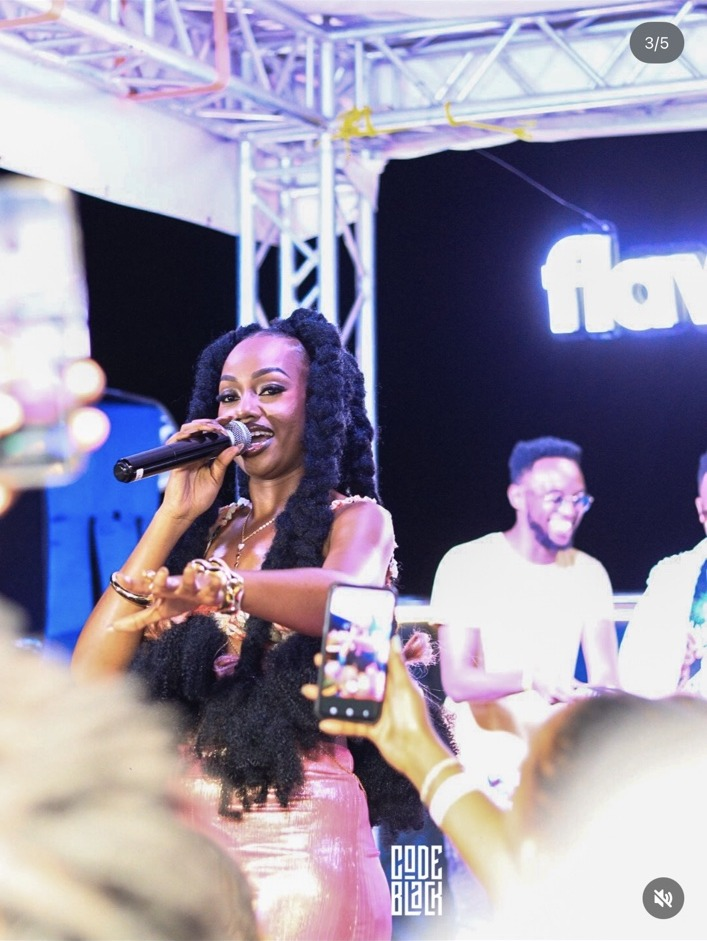
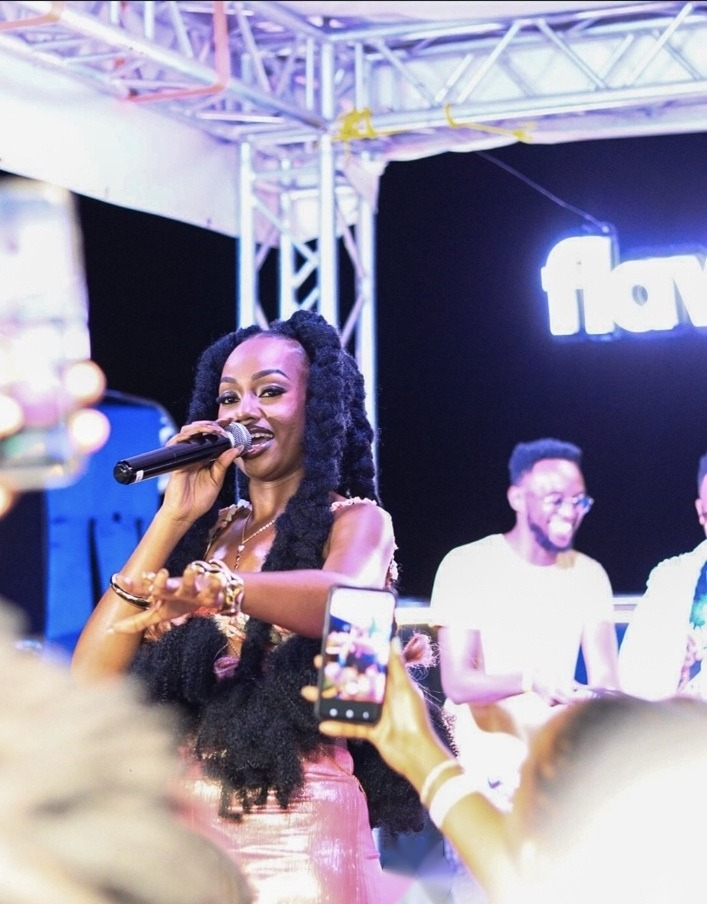
Clean Njerae and Bien photos, add more photos to the cover story, fix Fashion share image
Claude-Session: https://claude.ai/code/session_014AP1cqNKt7t5tdUCJACwcT

diff --git a/nairobi-new-sound.html b/nairobi-new-sound.html
@@ -1,4 +1,4 @@
-<!doctype html><html lang="en"><head><meta charset="utf-8"><meta name="viewport" content="width=device-width,initial-scale=1,viewport-fit=cover"><title>Nairobi’s New Sound | flavor.africa</title>
+<!doctype html><html lang="en"><head><meta charset="utf-8"><meta name="viewport" content="width=device-width,initial-scale=1,viewport-fit=cover"><title>Nairobi's New Sound | flavor.africa</title>
 <meta name="description" content="It isn&#x27;t one genre. That&#x27;s the whole point. Africa&#x27;s youngest streaming city is playing dancehall, konpa, arbantone and gospel all at once, and the numbers…">
 <link rel="canonical" href="https://flavorafricagroup.org/nairobi-new-sound.html">
 <meta name="robots" content="index,follow,max-image-preview:large">
@@ -11,7 +11,7 @@
 <meta name="claude:viewport-fit-sides" content="cover">
 <link rel="stylesheet" href="https://fonts.googleapis.com/css2?family=Barlow+Condensed:wght@500;600&family=DM+Mono:wght@400;500&family=Poppins:wght@300;400;500;700&display=swap">
 <link rel="stylesheet" href="style.css">
-</head><body><header><div class="wrap bar"><button class="icon" type="button" id="open" aria-label="Open menu"><svg viewBox="0 0 24 24" fill="none" stroke="currentColor" stroke-width="1.6"><path d="M3 6h18M3 12h18M3 18h18"/></svg></button><a class="logo" href="index.html">flavor.africa</a><div class="soc soc-hdr"><a href="https://www.instagram.com/flavor.africacorp" target="_blank" rel="noopener" aria-label="Flavor Africa on Instagram"><svg viewBox="0 0 24 24" fill="none" stroke="currentColor" stroke-width="1.6" aria-hidden="true"><rect x="3.2" y="3.2" width="17.6" height="17.6" rx="5"/><circle cx="12" cy="12" r="4"/><circle cx="17.4" cy="6.6" r=".9" fill="currentColor" stroke="none"/></svg></a><a href="https://www.tiktok.com/@flavor.africacorp" target="_blank" rel="noopener" aria-label="Flavor Africa on TikTok"><svg viewBox="0 0 24 24" fill="none" stroke="currentColor" stroke-width="1.6" stroke-linecap="round" stroke-linejoin="round" aria-hidden="true"><path d="M13.5 3.5v11.2a3.6 3.6 0 1 1-3.6-3.6"/><path d="M13.5 3.5c.5 2.7 2.3 4.4 5.2 4.6"/></svg></a><a href="https://www.youtube.com/@flavorafrica" target="_blank" rel="noopener" aria-label="Flavor Africa on YouTube"><svg viewBox="0 0 24 24" fill="none" stroke="currentColor" stroke-width="1.6" aria-hidden="true"><rect x="2.6" y="5.6" width="18.8" height="12.8" rx="4"/><path d="M10.2 9.3v5.4l4.6-2.7z" fill="currentColor" stroke="none"/></svg></a></div></div><nav class="sub" aria-label="Sections"><div class="wrap"><a href="index.html">Home</a><a href="music.html">Music</a><a href="charts.html">Charts</a><a href="screen.html">Film & TV</a><a href="fashion.html">Fashion</a><a href="money.html">Business</a><a href="sport.html">Sport</a><a href="culture.html">Culture</a><a href="features.html">Features</a><a href="live.html">Live</a><a href="about.html">About</a></div></nav></header><div class="drawer" id="drawer" hidden><div class="wrap bar"><button class="icon" type="button" id="close" aria-label="Close menu"><svg viewBox="0 0 24 24" fill="none" stroke="currentColor" stroke-width="1.6"><path d="M5 5l14 14M19 5L5 19"/></svg></button><a class="logo" href="index.html">flavor.africa</a><span></span></div><div class="wrap"><div class="acc"><a href="index.html">Home</a></div><div class="acc"><button type="button" aria-expanded="false"><b style="font-weight:600">Music</b><span>+</span></button><ul hidden><li><a href="music.html">All Music</a></li><li><a href="music.html">The Drop</a></li><li><a href="music.html">Flavor Playlist</a></li><li><a href="charts.html">Flavor Charts</a></li><li><a href="music.html">Flavor Radar</a></li><li><a href="music.html">The Verdict</a></li></ul></div><div class="acc"><a href="charts.html">Charts</a></div><div class="acc"><button type="button" aria-expanded="false"><b style="font-weight:600">Film &amp; TV</b><span>+</span></button><ul hidden><li><a href="screen.html">All Film &amp; TV</a></li><li><a href="screen.html">The Watchlist</a></li></ul></div><div class="acc"><button type="button" aria-expanded="false"><b style="font-weight:600">Fashion</b><span>+</span></button><ul hidden><li><a href="fashion.html">All Fashion</a></li><li><a href="fashion.html">Flavor Fashion</a></li></ul></div><div class="acc"><button type="button" aria-expanded="false"><b style="font-weight:600">Business</b><span>+</span></button><ul hidden><li><a href="money.html">All Business</a></li><li><a href="money.html">Money Moves</a></li><li><a href="money.html">Flavor Figures</a></li></ul></div><div class="acc"><button type="button" aria-expanded="false"><b style="font-weight:600">Sport</b><span>+</span></button><ul hidden><li><a href="sport.html">All Sport</a></li><li><a href="sport.html">Flavor Sports</a></li></ul></div><div class="acc"><button type="button" aria-expanded="false"><b style="font-weight:600">Culture</b><span>+</span></button><ul hidden><li><a href="culture.html">All Culture</a></li><li><a href="culture.html">Flavor Roots</a></li><li><a href="culture.html">Flavor Decoded</a></li><li><a href="culture.html">Flavor Rewind</a></li><li><a href="culture.html">In Their Words</a></li></ul></div><div class="acc"><button type="button" aria-expanded="false"><b style="font-weight:600">Features</b><span>+</span></button><ul hidden><li><a href="features.html">All Features</a></li><li><a href="features.html">Flavor Feature</a></li><li><a href="features.html">The Flavor Cover</a></li><li><a href="features.html">The Flavor Edit</a></li></ul></div><div class="acc"><button type="button" aria-expanded="false"><b style="font-weight:600">Live</b><span>+</span></button><ul hidden><li><a href="live.html">All Live</a></li><li><a href="live.html">Flavor Artist Live</a></li><li><a href="live.html">Nairobi This Weekend</a></li><li><a href="live.html">Fan Seat</a></li></ul></div><div class="acc"><a href="about.html">About &amp; contact</a></div><div class="drw-soc"><span class="meta">Follow Flavor</span><div class="soc"><a href="https://www.instagram.com/flavor.africacorp" target="_blank" rel="noopener" aria-label="Flavor Africa on Instagram"><svg viewBox="0 0 24 24" fill="none" stroke="currentColor" stroke-width="1.6" aria-hidden="true"><rect x="3.2" y="3.2" width="17.6" height="17.6" rx="5"/><circle cx="12" cy="12" r="4"/><circle cx="17.4" cy="6.6" r=".9" fill="currentColor" stroke="none"/></svg><span>Instagram</span></a><a href="https://www.tiktok.com/@flavor.africacorp" target="_blank" rel="noopener" aria-label="Flavor Africa on TikTok"><svg viewBox="0 0 24 24" fill="none" stroke="currentColor" stroke-width="1.6" stroke-linecap="round" stroke-linejoin="round" aria-hidden="true"><path d="M13.5 3.5v11.2a3.6 3.6 0 1 1-3.6-3.6"/><path d="M13.5 3.5c.5 2.7 2.3 4.4 5.2 4.6"/></svg><span>TikTok</span></a><a href="https://www.youtube.com/@flavorafrica" target="_blank" rel="noopener" aria-label="Flavor Africa on YouTube"><svg viewBox="0 0 24 24" fill="none" stroke="currentColor" stroke-width="1.6" aria-hidden="true"><rect x="2.6" y="5.6" width="18.8" height="12.8" rx="4"/><path d="M10.2 9.3v5.4l4.6-2.7z" fill="currentColor" stroke="none"/></svg><span>YouTube</span></a></div></div></div></div><main><article class="wrap"><div class="art"><span class="tag">The Flavor Cover</span><h1>Nairobi’s New Sound</h1><p class="dek">It isn't one genre. That's the whole point. Africa's youngest streaming city is playing dancehall, konpa, arbantone and gospel all at once, and the numbers prove it. Issue 01 of the Flavor Cover.</p><span class="meta">The Flavor Cover · Issue 01 · October 2026 · 7 min read</span><figure><img class="lead" src="img/nns-njerae.jpg" alt="Cover: Njerae, live with Flavor Africa"><figcaption>Cover: Njerae, live with Flavor Africa</figcaption></figure><div class="body"><p>Ask ten people in Nairobi what the city sounds like right now and you'll get ten different answers. A matatu on Ngong Road is blasting arbantone. A café in Kilimani is playing konpa. Somebody's cousin swears gospel is having a moment. A few years ago, one genre at a time owned the city. In 2026, nobody owns it, and that might be the most interesting thing about Kenyan music today.</p><p>This is our attempt to map it.</p><h2><span class="k">Young city, restless ears</span>Who's holding <b class="hb">the aux</b></h2><p>Start with who is listening. In Spotify's June 2026 data, listeners aged 18 to 24 accounted for 53.7% of all streams in Nairobi. That's the highest share of the three African cities Spotify compared, well ahead of Lagos at 44.4% and Johannesburg at 29.9%. Between 2am and 5am, that age group makes up 55% of everything the city plays.</p><p>Their listening day looks different, too. Across all ages, Nairobi's busiest listening hour is 6pm, but for 18 to 24-year-olds the peak comes at noon, and almost 40% of their daily listening happens between 10am and 4pm. In other words, the city's soundtrack is increasingly chosen by people who are still in school, just starting work, or working for themselves, with headphones in all day.</p><p>Whatever Gen Z presses play on, Nairobi hears. So what are they pressing play on?</p><figure><img src="img/nns-matatu.jpg" alt="Matatu culture" loading="lazy"><figcaption>Matatu culture</figcaption></figure><h2><span class="k">The fastest riser</span>Kingston, by way of <b class="hb">Eastlands</b></h2><p>The single fastest-growing genre among young Kenyan listeners in June was dancehall, up 95% on the same month a year earlier. Bongo Flava, the Tanzanian sound, was next at 75%. Gengetone, the genre people have been declaring dead for years, still grew 48%.</p><p>The influence itself isn't new: genge, the sound that started Nairobi's Sheng music boom in the 2000s, was hip-hop with dancehall in its DNA. What's new is the scale. Dancehall's growth is a reminder that Kenya's young listeners aren't only following Lagos and Johannesburg. They're looking to the Caribbean, and to their neighbours across the border.</p><h2><span class="k">Genge DNA, new clothes</span>Arbantone runs <b class="hb">the streets</b></h2><p>If gengetone defined the late 2010s, arbantone is its younger sibling. It grew out of a new crop of Nairobi artists around 2023, and it borrows openly from the past: producers sample old-school Kenyan classics and Jamaican throwbacks, speed them up and lay new, dance-ready beats underneath. The lyrics are in Sheng, about everyday young Nairobi life, and they're written to be lip-synced.</p><p>That last part matters. Arbantone was built for TikTok, and TikTok returned the favour. Its songs are short, catchy and made for dance challenges. Producers like Motif Di Don are credited with shaping the sound, while artists like Tipsy Gee and Gody Tennor took it from phone screens to radio and TV.</p><h2><span class="k">Slow it down</span>The Caribbean, <b class="hb">slowed down</b></h2><p>Not everything is fast. The year's biggest cross-border hit, “Finale” by Kenya's Bien and Tanzania's Alikiba, is built on konpa (also spelled kompa), the smooth Haitian dance rhythm that has quietly spread through African pop. Alikiba has described konpa as an international sound that has given the region an identity.</p><p>Kodong Klan, the seven-voice Nairobi collective, went the same way in September with “Your Body”. Member Charisma signed off his announcement of the song with a simple slogan: konpa to the world.</p><h2><span class="k">The plot twist</span>Nobody saw <b class="hb">this coming</b></h2><p>Here's the number that surprised everyone. Among young Kenyan listeners, gospel grew 37% year on year. Drill, which a lot of people assumed was the future of youth music, grew just 6%. That means gospel is growing roughly six times faster than drill among the very generation running the club mixes.</p><p>It fits a wider pattern in the data. Young listeners are streaming more of almost everything: amapiano up 34%, R&B up 28%, Afrobeats up 25%, Afropop up 21%. They aren't choosing between the club and the church. They're doing both, sometimes on the same playlist.</p><h2><span class="k">The breakout</span>Four o'clock tea, <b class="hb">all year</b></h2><p>If you want one song that sums up 2026 so far, it's “Chai ya saa kumi” by Ywaya Tajiri. In June it was the most-streamed song in Nairobi on Spotify, and Ywaya's streams among Kenyan 18 to 24-year-olds were up 6,151% on the year before, the biggest jump of any emerging artist. Behind him on that list were OnlyMoh, Virusi Mbaya, Codey and JayLo, all growing by thousands of percent.</p><p>It's not only newcomers. Prince Indah, the ohangla star, grew 221% among young listeners. Nyashinski, Bridget Blue, Kinoti and Nikita Kering' all more than doubled or came close. Brandy Maina and Maandy grew by more than 200% each.</p><h2><span class="k">On repeat right now</span>October's <b class="hb">main character</b></h2><p>If October has a name, it's Kapitani. He has been releasing at a pace few Kenyan artists can match this year, from “Kitemeo” in July to “Safe” with Countree Hype in September. On 12 October he dropped “Shing” with arbantone favourite Toxic Lyrikali, and he was back again on 25 October with “More”. Several songs, one artist, all in rotation at once.</p><p>Mejja, one of gengetone's biggest names, has opened a new chapter too. After more than two decades in music, he finally released his debut album, <em>Mtoto wa Khadija</em>, led by the TikTok-friendly “Siaka Siaka” with Uganda's Fik Fameica.</p><h2><span class="k">So what is the new sound?</span>The new sound is <b class="hb">all of it</b></h2><p>The old guard isn't being pushed out. Sauti Sol, on an indefinite break since 2023, was still the most-streamed Kenya-connected act in Nairobi in June, and still growing, up 30% among young listeners. And this month Bien, one of the group's four voices, became the first African artist signed to Quality Control Music, the Atlanta label behind Migos, Lil Baby and City Girls. Its co-founder Coach K called him an artist who could hold a stadium with just a guitar.</p><p>Put it all together and the picture is clear. Nairobi isn't picking a lane. It's playing dancehall and gospel, konpa and arbantone, Sauti Sol and Ywaya Tajiri, often in the same hour. The new sound of Nairobi isn't a genre. It's a city with its ears wide open.</p><figure><img src="img/nns-bien2.jpg" alt="Bien" loading="lazy"><figcaption>Bien</figcaption></figure></div><details class="sources"><summary>Sources</summary><ul><li><a href="https://the-star.co.ke/sasa/entertainment/2026-07-14-gospel-overtakes-drill-as-nairobis-gen-z-embraces-diverse-music-tastes" target="_blank" rel="noopener">The Star: Gospel overtakes drill as Nairobi's Gen Z embraces diverse tastes (Jul 2026)</a></li><li><a href="https://citizen.digital/article/spotify-data-shows-nairobis-gen-z-leads-africa-in-music-streaming-as-greasy-tunes-debuts-n386393" target="_blank" rel="noopener">Citizen Digital: Nairobi's Gen Z leads Africa in streaming (Jul 2026)</a></li><li><a href="https://citizen.digital/article/prince-indah-ywaya-tajiri-lead-spotifys-biggest-streaming-gains-among-nairobi-gen-z-listeners-n386923" target="_blank" rel="noopener">Citizen Digital: Prince Indah, Ywaya Tajiri lead streaming gains (Jul 2026)</a></li><li><a href="https://tech-ish.com/2026/07/22/spotify-kenya-artist-growth-june-2026/" target="_blank" rel="noopener">Tech-ish: Spotify Kenya artist growth, June 2026</a></li><li><a href="https://capitalfm.africa/the-advent-of-the-arbantone-music-genre-in-kenya/" target="_blank" rel="noopener">Capital FM: The advent of the arbantone genre</a></li><li><a href="https://afrocritik.com/the-rise-of-arbantone-a-new-stable-among-kenyan-music-genres/" target="_blank" rel="noopener">Afrocritik: The rise of arbantone (Feb 2024)</a></li><li><a href="https://onehub.onerpm.com/en/how-bien-and-alikibas-cross-border-finale-became-east-africas-biggest-hit-in-11-days/" target="_blank" rel="noopener">ONErpm: How Bien and Alikiba's Finale became East Africa's biggest hit</a></li><li><a href="https://www.okayafrica.com/alikibas-next-act-is-bigger-than-a-hit/1434550" target="_blank" rel="noopener">OkayAfrica: Alikiba's next act</a></li><li><a href="https://k24.digital/entertainment/celebrity/charisma-praises-kodong-klans-teamwork-behind-his-new-song-your-body/amp" target="_blank" rel="noopener">K24: Charisma on Kodong Klan's Your Body (Sep 2026)</a></li><li><a href="https://www.deezer.com/en/artist/307356191" target="_blank" rel="noopener">Deezer: Kapitani discography</a></li><li><a href="https://music.apple.com/ke/album/safe-single/6812073960" target="_blank" rel="noopener">Apple Music: Safe by Kapitani</a></li><li><a href="https://www.ghanamma.com/2026/06/14/mejja-reflects-on-20-year-wait-to-drop-debut-album-mtoto-wa-khadija-siaka-siaka-success/" target="_blank" rel="noopener">Ghanamma: Mejja on Mtoto wa Khadija</a></li><li><a href="https://k24.digital/entertainment/music/bien-becomes-first-african-artiste-to-sign-with-american-record-label-quality-control-music" target="_blank" rel="noopener">K24: Bien signs with Quality Control (Oct 2026)</a></li><li><a href="https://www.mpasho.co.ke/entertainment/2026-10-11-bien-becomes-first-african-artist-signed-to-quality-control-music" target="_blank" rel="noopener">Mpasho: Bien first African artist on Quality Control (Oct 2026)</a></li></ul><p>Every fact in this story was checked against at least two independent sources.</p></details></div></article></main><footer><div class="wrap"><div><a class="logo" href="index.html">flavor.africa</a><div class="line">Global culture, <b>African flavor</b></div></div><nav aria-label="Footer"><a href="index.html">Home</a><a href="music.html">Music</a><a href="charts.html">Charts</a><a href="screen.html">Film & TV</a><a href="fashion.html">Fashion</a><a href="money.html">Business</a><a href="sport.html">Sport</a><a href="culture.html">Culture</a><a href="features.html">Features</a><a href="live.html">Live</a><a href="about.html">About</a></nav><div class="foot-soc"><span class="meta">Follow</span><div class="soc"><a href="https://www.instagram.com/flavor.africacorp" target="_blank" rel="noopener" aria-label="Flavor Africa on Instagram"><svg viewBox="0 0 24 24" fill="none" stroke="currentColor" stroke-width="1.6" aria-hidden="true"><rect x="3.2" y="3.2" width="17.6" height="17.6" rx="5"/><circle cx="12" cy="12" r="4"/><circle cx="17.4" cy="6.6" r=".9" fill="currentColor" stroke="none"/></svg></a><a href="https://www.tiktok.com/@flavor.africacorp" target="_blank" rel="noopener" aria-label="Flavor Africa on TikTok"><svg viewBox="0 0 24 24" fill="none" stroke="currentColor" stroke-width="1.6" stroke-linecap="round" stroke-linejoin="round" aria-hidden="true"><path d="M13.5 3.5v11.2a3.6 3.6 0 1 1-3.6-3.6"/><path d="M13.5 3.5c.5 2.7 2.3 4.4 5.2 4.6"/></svg></a><a href="https://www.youtube.com/@flavorafrica" target="_blank" rel="noopener" aria-label="Flavor Africa on YouTube"><svg viewBox="0 0 24 24" fill="none" stroke="currentColor" stroke-width="1.6" aria-hidden="true"><rect x="2.6" y="5.6" width="18.8" height="12.8" rx="4"/><path d="M10.2 9.3v5.4l4.6-2.7z" fill="currentColor" stroke="none"/></svg></a></div></div><small>© 2026 Flavor Africa Group · Nairobi, Kenya</small></div></footer><script>(function(){
+</head><body><header><div class="wrap bar"><button class="icon" type="button" id="open" aria-label="Open menu"><svg viewBox="0 0 24 24" fill="none" stroke="currentColor" stroke-width="1.6"><path d="M3 6h18M3 12h18M3 18h18"/></svg></button><a class="logo" href="index.html">flavor.africa</a><div class="soc soc-hdr"><a href="https://www.instagram.com/flavor.africacorp" target="_blank" rel="noopener" aria-label="Flavor Africa on Instagram"><svg viewBox="0 0 24 24" fill="none" stroke="currentColor" stroke-width="1.6" aria-hidden="true"><rect x="3.2" y="3.2" width="17.6" height="17.6" rx="5"/><circle cx="12" cy="12" r="4"/><circle cx="17.4" cy="6.6" r=".9" fill="currentColor" stroke="none"/></svg></a><a href="https://www.tiktok.com/@flavor.africacorp" target="_blank" rel="noopener" aria-label="Flavor Africa on TikTok"><svg viewBox="0 0 24 24" fill="none" stroke="currentColor" stroke-width="1.6" stroke-linecap="round" stroke-linejoin="round" aria-hidden="true"><path d="M13.5 3.5v11.2a3.6 3.6 0 1 1-3.6-3.6"/><path d="M13.5 3.5c.5 2.7 2.3 4.4 5.2 4.6"/></svg></a><a href="https://www.youtube.com/@flavorafrica" target="_blank" rel="noopener" aria-label="Flavor Africa on YouTube"><svg viewBox="0 0 24 24" fill="none" stroke="currentColor" stroke-width="1.6" aria-hidden="true"><rect x="2.6" y="5.6" width="18.8" height="12.8" rx="4"/><path d="M10.2 9.3v5.4l4.6-2.7z" fill="currentColor" stroke="none"/></svg></a></div></div><nav class="sub" aria-label="Sections"><div class="wrap"><a href="index.html">Home</a><a href="music.html">Music</a><a href="charts.html">Charts</a><a href="screen.html">Film & TV</a><a href="fashion.html">Fashion</a><a href="money.html">Business</a><a href="sport.html">Sport</a><a href="culture.html">Culture</a><a href="features.html">Features</a><a href="live.html">Live</a><a href="about.html">About</a></div></nav></header><div class="drawer" id="drawer" hidden><div class="wrap bar"><button class="icon" type="button" id="close" aria-label="Close menu"><svg viewBox="0 0 24 24" fill="none" stroke="currentColor" stroke-width="1.6"><path d="M5 5l14 14M19 5L5 19"/></svg></button><a class="logo" href="index.html">flavor.africa</a><span></span></div><div class="wrap"><div class="acc"><a href="index.html">Home</a></div><div class="acc"><button type="button" aria-expanded="false"><b style="font-weight:600">Music</b><span>+</span></button><ul hidden><li><a href="music.html">All Music</a></li><li><a href="music.html">The Drop</a></li><li><a href="music.html">Flavor Playlist</a></li><li><a href="charts.html">Flavor Charts</a></li><li><a href="music.html">Flavor Radar</a></li><li><a href="music.html">The Verdict</a></li></ul></div><div class="acc"><a href="charts.html">Charts</a></div><div class="acc"><button type="button" aria-expanded="false"><b style="font-weight:600">Film &amp; TV</b><span>+</span></button><ul hidden><li><a href="screen.html">All Film &amp; TV</a></li><li><a href="screen.html">The Watchlist</a></li></ul></div><div class="acc"><button type="button" aria-expanded="false"><b style="font-weight:600">Fashion</b><span>+</span></button><ul hidden><li><a href="fashion.html">All Fashion</a></li><li><a href="fashion.html">Flavor Fashion</a></li></ul></div><div class="acc"><button type="button" aria-expanded="false"><b style="font-weight:600">Business</b><span>+</span></button><ul hidden><li><a href="money.html">All Business</a></li><li><a href="money.html">Money Moves</a></li><li><a href="money.html">Flavor Figures</a></li></ul></div><div class="acc"><button type="button" aria-expanded="false"><b style="font-weight:600">Sport</b><span>+</span></button><ul hidden><li><a href="sport.html">All Sport</a></li><li><a href="sport.html">Flavor Sports</a></li></ul></div><div class="acc"><button type="button" aria-expanded="false"><b style="font-weight:600">Culture</b><span>+</span></button><ul hidden><li><a href="culture.html">All Culture</a></li><li><a href="culture.html">Flavor Roots</a></li><li><a href="culture.html">Flavor Decoded</a></li><li><a href="culture.html">Flavor Rewind</a></li><li><a href="culture.html">In Their Words</a></li></ul></div><div class="acc"><button type="button" aria-expanded="false"><b style="font-weight:600">Features</b><span>+</span></button><ul hidden><li><a href="features.html">All Features</a></li><li><a href="features.html">Flavor Feature</a></li><li><a href="features.html">The Flavor Cover</a></li><li><a href="features.html">The Flavor Edit</a></li></ul></div><div class="acc"><button type="button" aria-expanded="false"><b style="font-weight:600">Live</b><span>+</span></button><ul hidden><li><a href="live.html">All Live</a></li><li><a href="live.html">Flavor Artist Live</a></li><li><a href="live.html">Nairobi This Weekend</a></li><li><a href="live.html">Fan Seat</a></li></ul></div><div class="acc"><a href="about.html">About &amp; contact</a></div><div class="drw-soc"><span class="meta">Follow Flavor</span><div class="soc"><a href="https://www.instagram.com/flavor.africacorp" target="_blank" rel="noopener" aria-label="Flavor Africa on Instagram"><svg viewBox="0 0 24 24" fill="none" stroke="currentColor" stroke-width="1.6" aria-hidden="true"><rect x="3.2" y="3.2" width="17.6" height="17.6" rx="5"/><circle cx="12" cy="12" r="4"/><circle cx="17.4" cy="6.6" r=".9" fill="currentColor" stroke="none"/></svg><span>Instagram</span></a><a href="https://www.tiktok.com/@flavor.africacorp" target="_blank" rel="noopener" aria-label="Flavor Africa on TikTok"><svg viewBox="0 0 24 24" fill="none" stroke="currentColor" stroke-width="1.6" stroke-linecap="round" stroke-linejoin="round" aria-hidden="true"><path d="M13.5 3.5v11.2a3.6 3.6 0 1 1-3.6-3.6"/><path d="M13.5 3.5c.5 2.7 2.3 4.4 5.2 4.6"/></svg><span>TikTok</span></a><a href="https://www.youtube.com/@flavorafrica" target="_blank" rel="noopener" aria-label="Flavor Africa on YouTube"><svg viewBox="0 0 24 24" fill="none" stroke="currentColor" stroke-width="1.6" aria-hidden="true"><rect x="2.6" y="5.6" width="18.8" height="12.8" rx="4"/><path d="M10.2 9.3v5.4l4.6-2.7z" fill="currentColor" stroke="none"/></svg><span>YouTube</span></a></div></div></div></div><main><article class="wrap"><div class="art"><span class="tag">The Flavor Cover</span><h1>Nairobi’s New Sound</h1><p class="dek">It isn't one genre. That's the whole point. Africa's youngest streaming city is playing dancehall, konpa, arbantone and gospel all at once, and the numbers prove it. Issue 01 of the Flavor Cover.</p><span class="meta">The Flavor Cover · Issue 01 · October 2026 · 7 min read</span><figure><img class="lead" src="img/nns-njerae.jpg" alt="Cover: Njerae, live with Flavor Africa"><figcaption>Cover: Njerae, live with Flavor Africa</figcaption></figure><div class="body"><p>Ask ten people in Nairobi what the city sounds like right now and you'll get ten different answers. A matatu on Ngong Road is blasting arbantone. A café in Kilimani is playing konpa. Somebody's cousin swears gospel is having a moment. A few years ago, one genre at a time owned the city. In 2026, nobody owns it, and that might be the most interesting thing about Kenyan music today.</p><p>This is our attempt to map it.</p><h2><span class="k">Young city, restless ears</span>Who's holding <b class="hb">the aux</b></h2><p>Start with who is listening. In Spotify's June 2026 data, listeners aged 18 to 24 accounted for 53.7% of all streams in Nairobi. That's the highest share of the three African cities Spotify compared, well ahead of Lagos at 44.4% and Johannesburg at 29.9%. Between 2am and 5am, that age group makes up 55% of everything the city plays.</p><p>Their listening day looks different, too. Across all ages, Nairobi's busiest listening hour is 6pm, but for 18 to 24-year-olds the peak comes at noon, and almost 40% of their daily listening happens between 10am and 4pm. In other words, the city's soundtrack is increasingly chosen by people who are still in school, just starting work, or working for themselves, with headphones in all day.</p><p>Whatever Gen Z presses play on, Nairobi hears. So what are they pressing play on?</p><figure><img src="img/nns-matatu.jpg" alt="Matatu culture" loading="lazy"><figcaption>Matatu culture</figcaption></figure><h2><span class="k">The fastest riser</span>Kingston, by way of <b class="hb">Eastlands</b></h2><p>The single fastest-growing genre among young Kenyan listeners in June was dancehall, up 95% on the same month a year earlier. Bongo Flava, the Tanzanian sound, was next at 75%. Gengetone, the genre people have been declaring dead for years, still grew 48%.</p><p>The influence itself isn't new: genge, the sound that started Nairobi's Sheng music boom in the 2000s, was hip-hop with dancehall in its DNA. What's new is the scale. Dancehall's growth is a reminder that Kenya's young listeners aren't only following Lagos and Johannesburg. They're looking to the Caribbean, and to their neighbours across the border.</p><h2><span class="k">Genge DNA, new clothes</span>Arbantone runs <b class="hb">the streets</b></h2><p>If gengetone defined the late 2010s, arbantone is its younger sibling. It grew out of a new crop of Nairobi artists around 2023, and it borrows openly from the past: producers sample old-school Kenyan classics and Jamaican throwbacks, speed them up and lay new, dance-ready beats underneath. The lyrics are in Sheng, about everyday young Nairobi life, and they're written to be lip-synced.</p><p>That last part matters. Arbantone was built for TikTok, and TikTok returned the favour. Its songs are short, catchy and made for dance challenges. Producers like Motif Di Don are credited with shaping the sound, while artists like Tipsy Gee and Gody Tennor took it from phone screens to radio and TV.</p><h2><span class="k">Slow it down</span>The Caribbean, <b class="hb">slowed down</b></h2><p>Not everything is fast. The year's biggest cross-border hit, “Finale” by Kenya's Bien and Tanzania's Alikiba, is built on konpa (also spelled kompa), the smooth Haitian dance rhythm that has quietly spread through African pop. Alikiba has described konpa as an international sound that has given the region an identity.</p><p>Kodong Klan, the seven-voice Nairobi collective, went the same way in September with “Your Body”. Member Charisma signed off his announcement of the song with a simple slogan: konpa to the world.</p><figure><img src="img/nns-bien.jpg" alt="Bien, whose konpa-driven “Finale” with Alikiba became the year’s big cross-border hit" loading="lazy"><figcaption>Bien, whose konpa-driven “Finale” with Alikiba became the year’s big cross-border hit</figcaption></figure><h2><span class="k">The plot twist</span>Nobody saw <b class="hb">this coming</b></h2><p>Here's the number that surprised everyone. Among young Kenyan listeners, gospel grew 37% year on year. Drill, which a lot of people assumed was the future of youth music, grew just 6%. That means gospel is growing roughly six times faster than drill among the very generation running the club mixes.</p><p>It fits a wider pattern in the data. Young listeners are streaming more of almost everything: amapiano up 34%, R&B up 28%, Afrobeats up 25%, Afropop up 21%. They aren't choosing between the club and the church. They're doing both, sometimes on the same playlist.</p><figure><img src="img/nns-gospel.jpg" alt="Gospel is growing roughly six times faster than drill among young Kenyan listeners" loading="lazy"><figcaption>Gospel is growing roughly six times faster than drill among young Kenyan listeners</figcaption></figure><h2><span class="k">The breakout</span>Four o'clock tea, <b class="hb">all year</b></h2><p>If you want one song that sums up 2026 so far, it's “Chai ya saa kumi” by Ywaya Tajiri. In June it was the most-streamed song in Nairobi on Spotify, and Ywaya's streams among Kenyan 18 to 24-year-olds were up 6,151% on the year before, the biggest jump of any emerging artist. Behind him on that list were OnlyMoh, Virusi Mbaya, Codey and JayLo, all growing by thousands of percent.</p><p>It's not only newcomers. Prince Indah, the ohangla star, grew 221% among young listeners. Nyashinski, Bridget Blue, Kinoti and Nikita Kering' all more than doubled or came close. Brandy Maina and Maandy grew by more than 200% each.</p><figure><img src="img/nns-ywaya.jpg" alt="Ywaya Tajiri, the breakout of 2026" loading="lazy"><figcaption>Ywaya Tajiri, the breakout of 2026</figcaption></figure><h2><span class="k">On repeat right now</span>October's <b class="hb">main character</b></h2><p>If October has a name, it's Kapitani. He has been releasing at a pace few Kenyan artists can match this year, from “Kitemeo” in July to “Safe” with Countree Hype in September. On 12 October he dropped “Shing” with arbantone favourite Toxic Lyrikali, and he was back again on 25 October with “More”. Several songs, one artist, all in rotation at once.</p><p>Mejja, one of gengetone's biggest names, has opened a new chapter too. After more than two decades in music, he finally released his debut album, <em>Mtoto wa Khadija</em>, led by the TikTok-friendly “Siaka Siaka” with Uganda's Fik Fameica.</p><div class="duo"><img src="img/nns-kapitani.jpg" alt="Kapitani" loading="lazy"><img src="img/nns-mejja.jpg" alt="Mejja" loading="lazy"></div><h2><span class="k">So what is the new sound?</span>The new sound is <b class="hb">all of it</b></h2><p>The old guard isn't being pushed out. Sauti Sol, on an indefinite break since 2023, was still the most-streamed Kenya-connected act in Nairobi in June, and still growing, up 30% among young listeners. And this month Bien, one of the group's four voices, became the first African artist signed to Quality Control Music, the Atlanta label behind Migos, Lil Baby and City Girls. Its co-founder Coach K called him an artist who could hold a stadium with just a guitar.</p><p>Put it all together and the picture is clear. Nairobi isn't picking a lane. It's playing dancehall and gospel, konpa and arbantone, Sauti Sol and Ywaya Tajiri, often in the same hour. The new sound of Nairobi isn't a genre. It's a city with its ears wide open.</p><figure><img src="img/nns-bien2.jpg" alt="Bien" loading="lazy"><figcaption>Bien</figcaption></figure></div><details class="sources"><summary>Sources</summary><ul><li><a href="https://the-star.co.ke/sasa/entertainment/2026-07-14-gospel-overtakes-drill-as-nairobis-gen-z-embraces-diverse-music-tastes" target="_blank" rel="noopener">The Star: Gospel overtakes drill as Nairobi's Gen Z embraces diverse tastes (Jul 2026)</a></li><li><a href="https://citizen.digital/article/spotify-data-shows-nairobis-gen-z-leads-africa-in-music-streaming-as-greasy-tunes-debuts-n386393" target="_blank" rel="noopener">Citizen Digital: Nairobi's Gen Z leads Africa in streaming (Jul 2026)</a></li><li><a href="https://citizen.digital/article/prince-indah-ywaya-tajiri-lead-spotifys-biggest-streaming-gains-among-nairobi-gen-z-listeners-n386923" target="_blank" rel="noopener">Citizen Digital: Prince Indah, Ywaya Tajiri lead streaming gains (Jul 2026)</a></li><li><a href="https://tech-ish.com/2026/07/22/spotify-kenya-artist-growth-june-2026/" target="_blank" rel="noopener">Tech-ish: Spotify Kenya artist growth, June 2026</a></li><li><a href="https://capitalfm.africa/the-advent-of-the-arbantone-music-genre-in-kenya/" target="_blank" rel="noopener">Capital FM: The advent of the arbantone genre</a></li><li><a href="https://afrocritik.com/the-rise-of-arbantone-a-new-stable-among-kenyan-music-genres/" target="_blank" rel="noopener">Afrocritik: The rise of arbantone (Feb 2024)</a></li><li><a href="https://onehub.onerpm.com/en/how-bien-and-alikibas-cross-border-finale-became-east-africas-biggest-hit-in-11-days/" target="_blank" rel="noopener">ONErpm: How Bien and Alikiba's Finale became East Africa's biggest hit</a></li><li><a href="https://www.okayafrica.com/alikibas-next-act-is-bigger-than-a-hit/1434550" target="_blank" rel="noopener">OkayAfrica: Alikiba's next act</a></li><li><a href="https://k24.digital/entertainment/celebrity/charisma-praises-kodong-klans-teamwork-behind-his-new-song-your-body/amp" target="_blank" rel="noopener">K24: Charisma on Kodong Klan's Your Body (Sep 2026)</a></li><li><a href="https://www.deezer.com/en/artist/307356191" target="_blank" rel="noopener">Deezer: Kapitani discography</a></li><li><a href="https://music.apple.com/ke/album/safe-single/6812073960" target="_blank" rel="noopener">Apple Music: Safe by Kapitani</a></li><li><a href="https://www.ghanamma.com/2026/06/14/mejja-reflects-on-20-year-wait-to-drop-debut-album-mtoto-wa-khadija-siaka-siaka-success/" target="_blank" rel="noopener">Ghanamma: Mejja on Mtoto wa Khadija</a></li><li><a href="https://k24.digital/entertainment/music/bien-becomes-first-african-artiste-to-sign-with-american-record-label-quality-control-music" target="_blank" rel="noopener">K24: Bien signs with Quality Control (Oct 2026)</a></li><li><a href="https://www.mpasho.co.ke/entertainment/2026-10-11-bien-becomes-first-african-artist-signed-to-quality-control-music" target="_blank" rel="noopener">Mpasho: Bien first African artist on Quality Control (Oct 2026)</a></li></ul><p>Every fact in this story was checked against at least two independent sources.</p></details></div></article></main><footer><div class="wrap"><div><a class="logo" href="index.html">flavor.africa</a><div class="line">Global culture, <b>African flavor</b></div></div><nav aria-label="Footer"><a href="index.html">Home</a><a href="music.html">Music</a><a href="charts.html">Charts</a><a href="screen.html">Film & TV</a><a href="fashion.html">Fashion</a><a href="money.html">Business</a><a href="sport.html">Sport</a><a href="culture.html">Culture</a><a href="features.html">Features</a><a href="live.html">Live</a><a href="about.html">About</a></nav><div class="foot-soc"><span class="meta">Follow</span><div class="soc"><a href="https://www.instagram.com/flavor.africacorp" target="_blank" rel="noopener" aria-label="Flavor Africa on Instagram"><svg viewBox="0 0 24 24" fill="none" stroke="currentColor" stroke-width="1.6" aria-hidden="true"><rect x="3.2" y="3.2" width="17.6" height="17.6" rx="5"/><circle cx="12" cy="12" r="4"/><circle cx="17.4" cy="6.6" r=".9" fill="currentColor" stroke="none"/></svg></a><a href="https://www.tiktok.com/@flavor.africacorp" target="_blank" rel="noopener" aria-label="Flavor Africa on TikTok"><svg viewBox="0 0 24 24" fill="none" stroke="currentColor" stroke-width="1.6" stroke-linecap="round" stroke-linejoin="round" aria-hidden="true"><path d="M13.5 3.5v11.2a3.6 3.6 0 1 1-3.6-3.6"/><path d="M13.5 3.5c.5 2.7 2.3 4.4 5.2 4.6"/></svg></a><a href="https://www.youtube.com/@flavorafrica" target="_blank" rel="noopener" aria-label="Flavor Africa on YouTube"><svg viewBox="0 0 24 24" fill="none" stroke="currentColor" stroke-width="1.6" aria-hidden="true"><rect x="2.6" y="5.6" width="18.8" height="12.8" rx="4"/><path d="M10.2 9.3v5.4l4.6-2.7z" fill="currentColor" stroke="none"/></svg></a></div></div><small>© 2026 Flavor Africa Group · Nairobi, Kenya</small></div></footer><script>(function(){
 var d=document.getElementById('drawer');
 document.getElementById('open').onclick=function(){d.hidden=false;document.body.style.overflow='hidden'};
 document.getElementById('close').onclick=function(){d.hidden=true;document.body.style.overflow=''};

diff --git a/fashion.html b/fashion.html
@@ -4,8 +4,8 @@
 <meta name="robots" content="index,follow,max-image-preview:large">
 <meta name="theme-color" content="#2A0174">
 <link rel="icon" href="favicon.svg" type="image/svg+xml"><link rel="icon" href="favicon.png" type="image/png" sizes="512x512"><link rel="apple-touch-icon" href="apple-touch-icon.png">
-<meta property="og:site_name" content="flavor.africa"><meta property="og:type" content="website"><meta property="og:title" content="Fashion"><meta property="og:description" content="Flavor Fashion: African and global fashion news, fashion weeks, designers and style, told like a magazine."><meta property="og:url" content="https://flavorafricagroup.org/fashion.html"><meta property="og:image" content="https://flavorafricagroup.org/img/lfw-cover.jpg"><meta property="og:locale" content="en_KE">
-<meta name="twitter:card" content="summary_large_image"><meta name="twitter:title" content="Fashion | flavor.africa"><meta name="twitter:description" content="Flavor Fashion: African and global fashion news, fashion weeks, designers and style, told like a magazine."><meta name="twitter:image" content="https://flavorafricagroup.org/img/lfw-cover.jpg">
+<meta property="og:site_name" content="flavor.africa"><meta property="og:type" content="website"><meta property="og:title" content="Fashion"><meta property="og:description" content="Flavor Fashion: African and global fashion news, fashion weeks, designers and style, told like a magazine."><meta property="og:url" content="https://flavorafricagroup.org/fashion.html"><meta property="og:image" content="https://flavorafricagroup.org/img/lfw-incubator.jpg"><meta property="og:locale" content="en_KE">
+<meta name="twitter:card" content="summary_large_image"><meta name="twitter:title" content="Fashion | flavor.africa"><meta name="twitter:description" content="Flavor Fashion: African and global fashion news, fashion weeks, designers and style, told like a magazine."><meta name="twitter:image" content="https://flavorafricagroup.org/img/lfw-incubator.jpg">
 <link rel="preconnect" href="https://fonts.googleapis.com"><link rel="preconnect" href="https://fonts.gstatic.com" crossorigin>
 <script type="application/ld+json">{"@context": "https://schema.org", "@graph": [{"@type": "CollectionPage", "name": "Fashion", "url": "https://flavorafricagroup.org/fashion.html", "description": "Flavor Fashion: African and global fashion news, fashion weeks, designers and style, told like a magazine.", "isPartOf": {"@type": "WebSite", "url": "https://flavorafricagroup.org/", "name": "flavor.africa"}}]}</script>
 <meta name="claude:viewport-fit-sides" content="cover">

diff --git a/_articles/nairobi_new_sound.py b/_articles/nairobi_new_sound.py
@@ -28,17 +28,25 @@ BODY = [
 ("p", "Not everything is fast. The year's biggest cross-border hit, “Finale” by Kenya's Bien and Tanzania's Alikiba, is built on konpa (also spelled kompa), the smooth Haitian dance rhythm that has quietly spread through African pop. Alikiba has described konpa as an international sound that has given the region an identity."),
 ("p", "Kodong Klan, the seven-voice Nairobi collective, went the same way in September with “Your Body”. Member Charisma signed off his announcement of the song with a simple slogan: konpa to the world."),
 
+("img", "img/nns-bien.jpg", "Bien, whose konpa-driven “Finale” with Alikiba became the year’s big cross-border hit"),
+
 ("h2", "The plot twist", "Nobody saw ", "this coming"),
 ("p", "Here's the number that surprised everyone. Among young Kenyan listeners, gospel grew 37% year on year. Drill, which a lot of people assumed was the future of youth music, grew just 6%. That means gospel is growing roughly six times faster than drill among the very generation running the club mixes."),
 ("p", "It fits a wider pattern in the data. Young listeners are streaming more of almost everything: amapiano up 34%, R&B up 28%, Afrobeats up 25%, Afropop up 21%. They aren't choosing between the club and the church. They're doing both, sometimes on the same playlist."),
+
+("img", "img/nns-gospel.jpg", "Gospel is growing roughly six times faster than drill among young Kenyan listeners"),
 
 ("h2", "The breakout", "Four o'clock tea, ", "all year"),
 ("p", "If you want one song that sums up 2026 so far, it's “Chai ya saa kumi” by Ywaya Tajiri. In June it was the most-streamed song in Nairobi on Spotify, and Ywaya's streams among Kenyan 18 to 24-year-olds were up 6,151% on the year before, the biggest jump of any emerging artist. Behind him on that list were OnlyMoh, Virusi Mbaya, Codey and JayLo, all growing by thousands of percent."),
 ("p", "It's not only newcomers. Prince Indah, the ohangla star, grew 221% among young listeners. Nyashinski, Bridget Blue, Kinoti and Nikita Kering' all more than doubled or came close. Brandy Maina and Maandy grew by more than 200% each."),
 
+("img", "img/nns-ywaya.jpg", "Ywaya Tajiri, the breakout of 2026"),
+
 ("h2", "On repeat right now", "October's ", "main character"),
 ("p", "If October has a name, it's Kapitani. He has been releasing at a pace few Kenyan artists can match this year, from “Kitemeo” in July to “Safe” with Countree Hype in September. On 12 October he dropped “Shing” with arbantone favourite Toxic Lyrikali, and he was back again on 25 October with “More”. Several songs, one artist, all in rotation at once."),
 ("p", "Mejja, one of gengetone's biggest names, has opened a new chapter too. After more than two decades in music, he finally released his debut album, <em>Mtoto wa Khadija</em>, led by the TikTok-friendly “Siaka Siaka” with Uganda's Fik Fameica."),
+
+("duo", [("img/nns-kapitani.jpg", "Kapitani"), ("img/nns-mejja.jpg", "Mejja")]),
 
 ("h2", "So what is the new sound?", "The new sound is ", "all of it"),
 ("p", "The old guard isn't being pushed out. Sauti Sol, on an indefinite break since 2023, was still the most-streamed Kenya-connected act in Nairobi in June, and still growing, up 30% among young listeners. And this month Bien, one of the group's four voices, became the first African artist signed to Quality Control Music, the Atlanta label behind Migos, Lil Baby and City Girls. Its co-founder Coach K called him an artist who could hold a stadium with just a guitar."),
